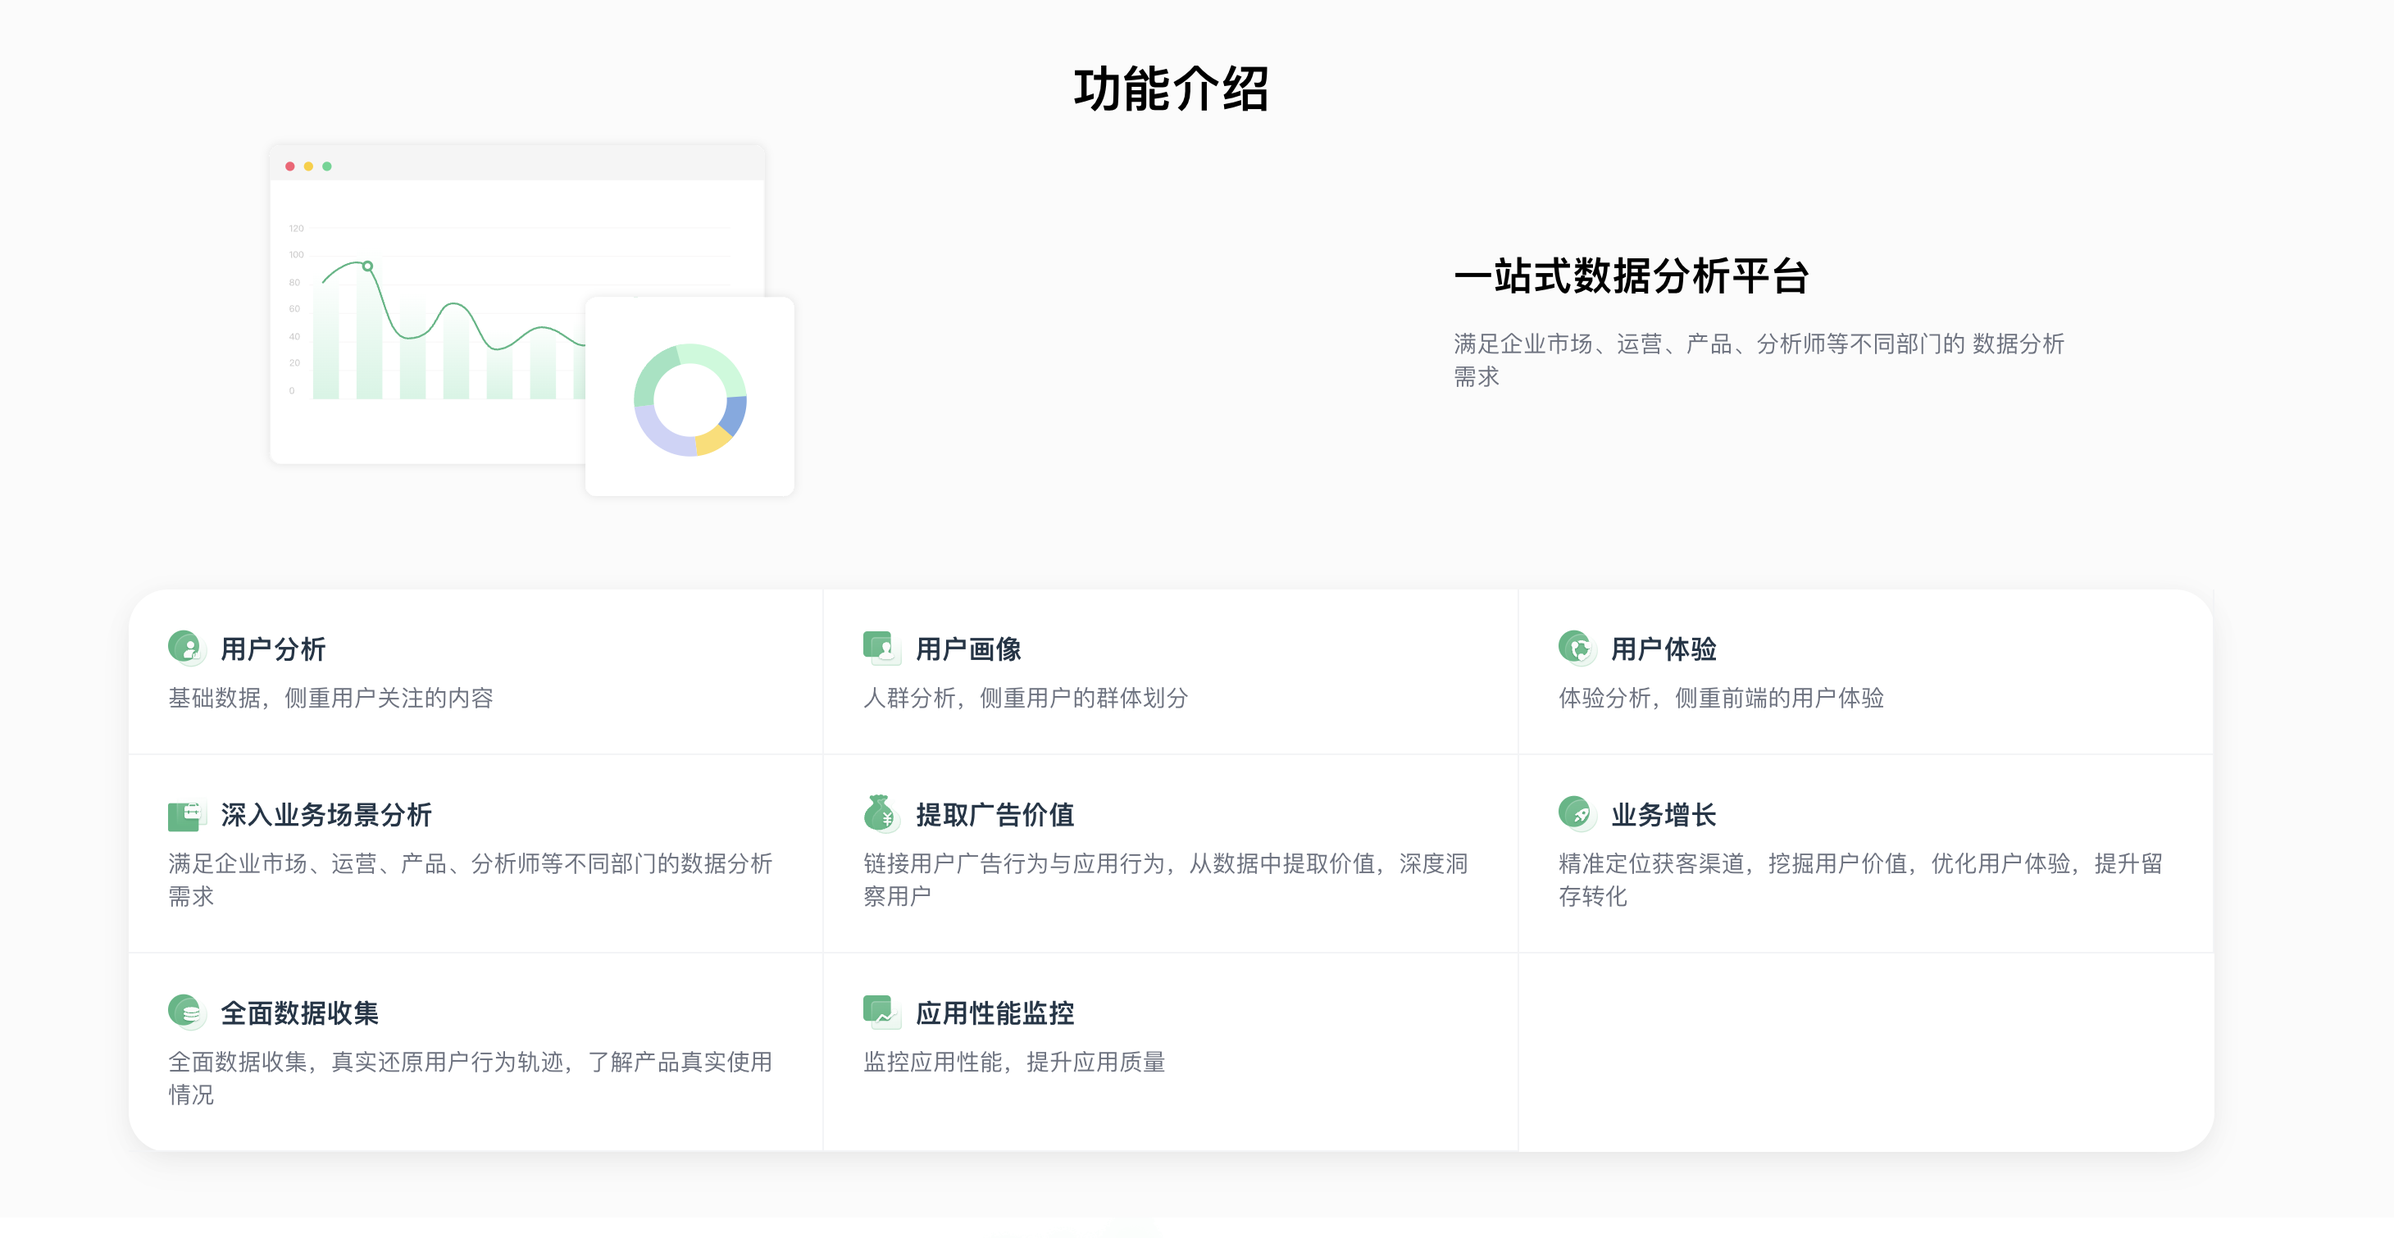
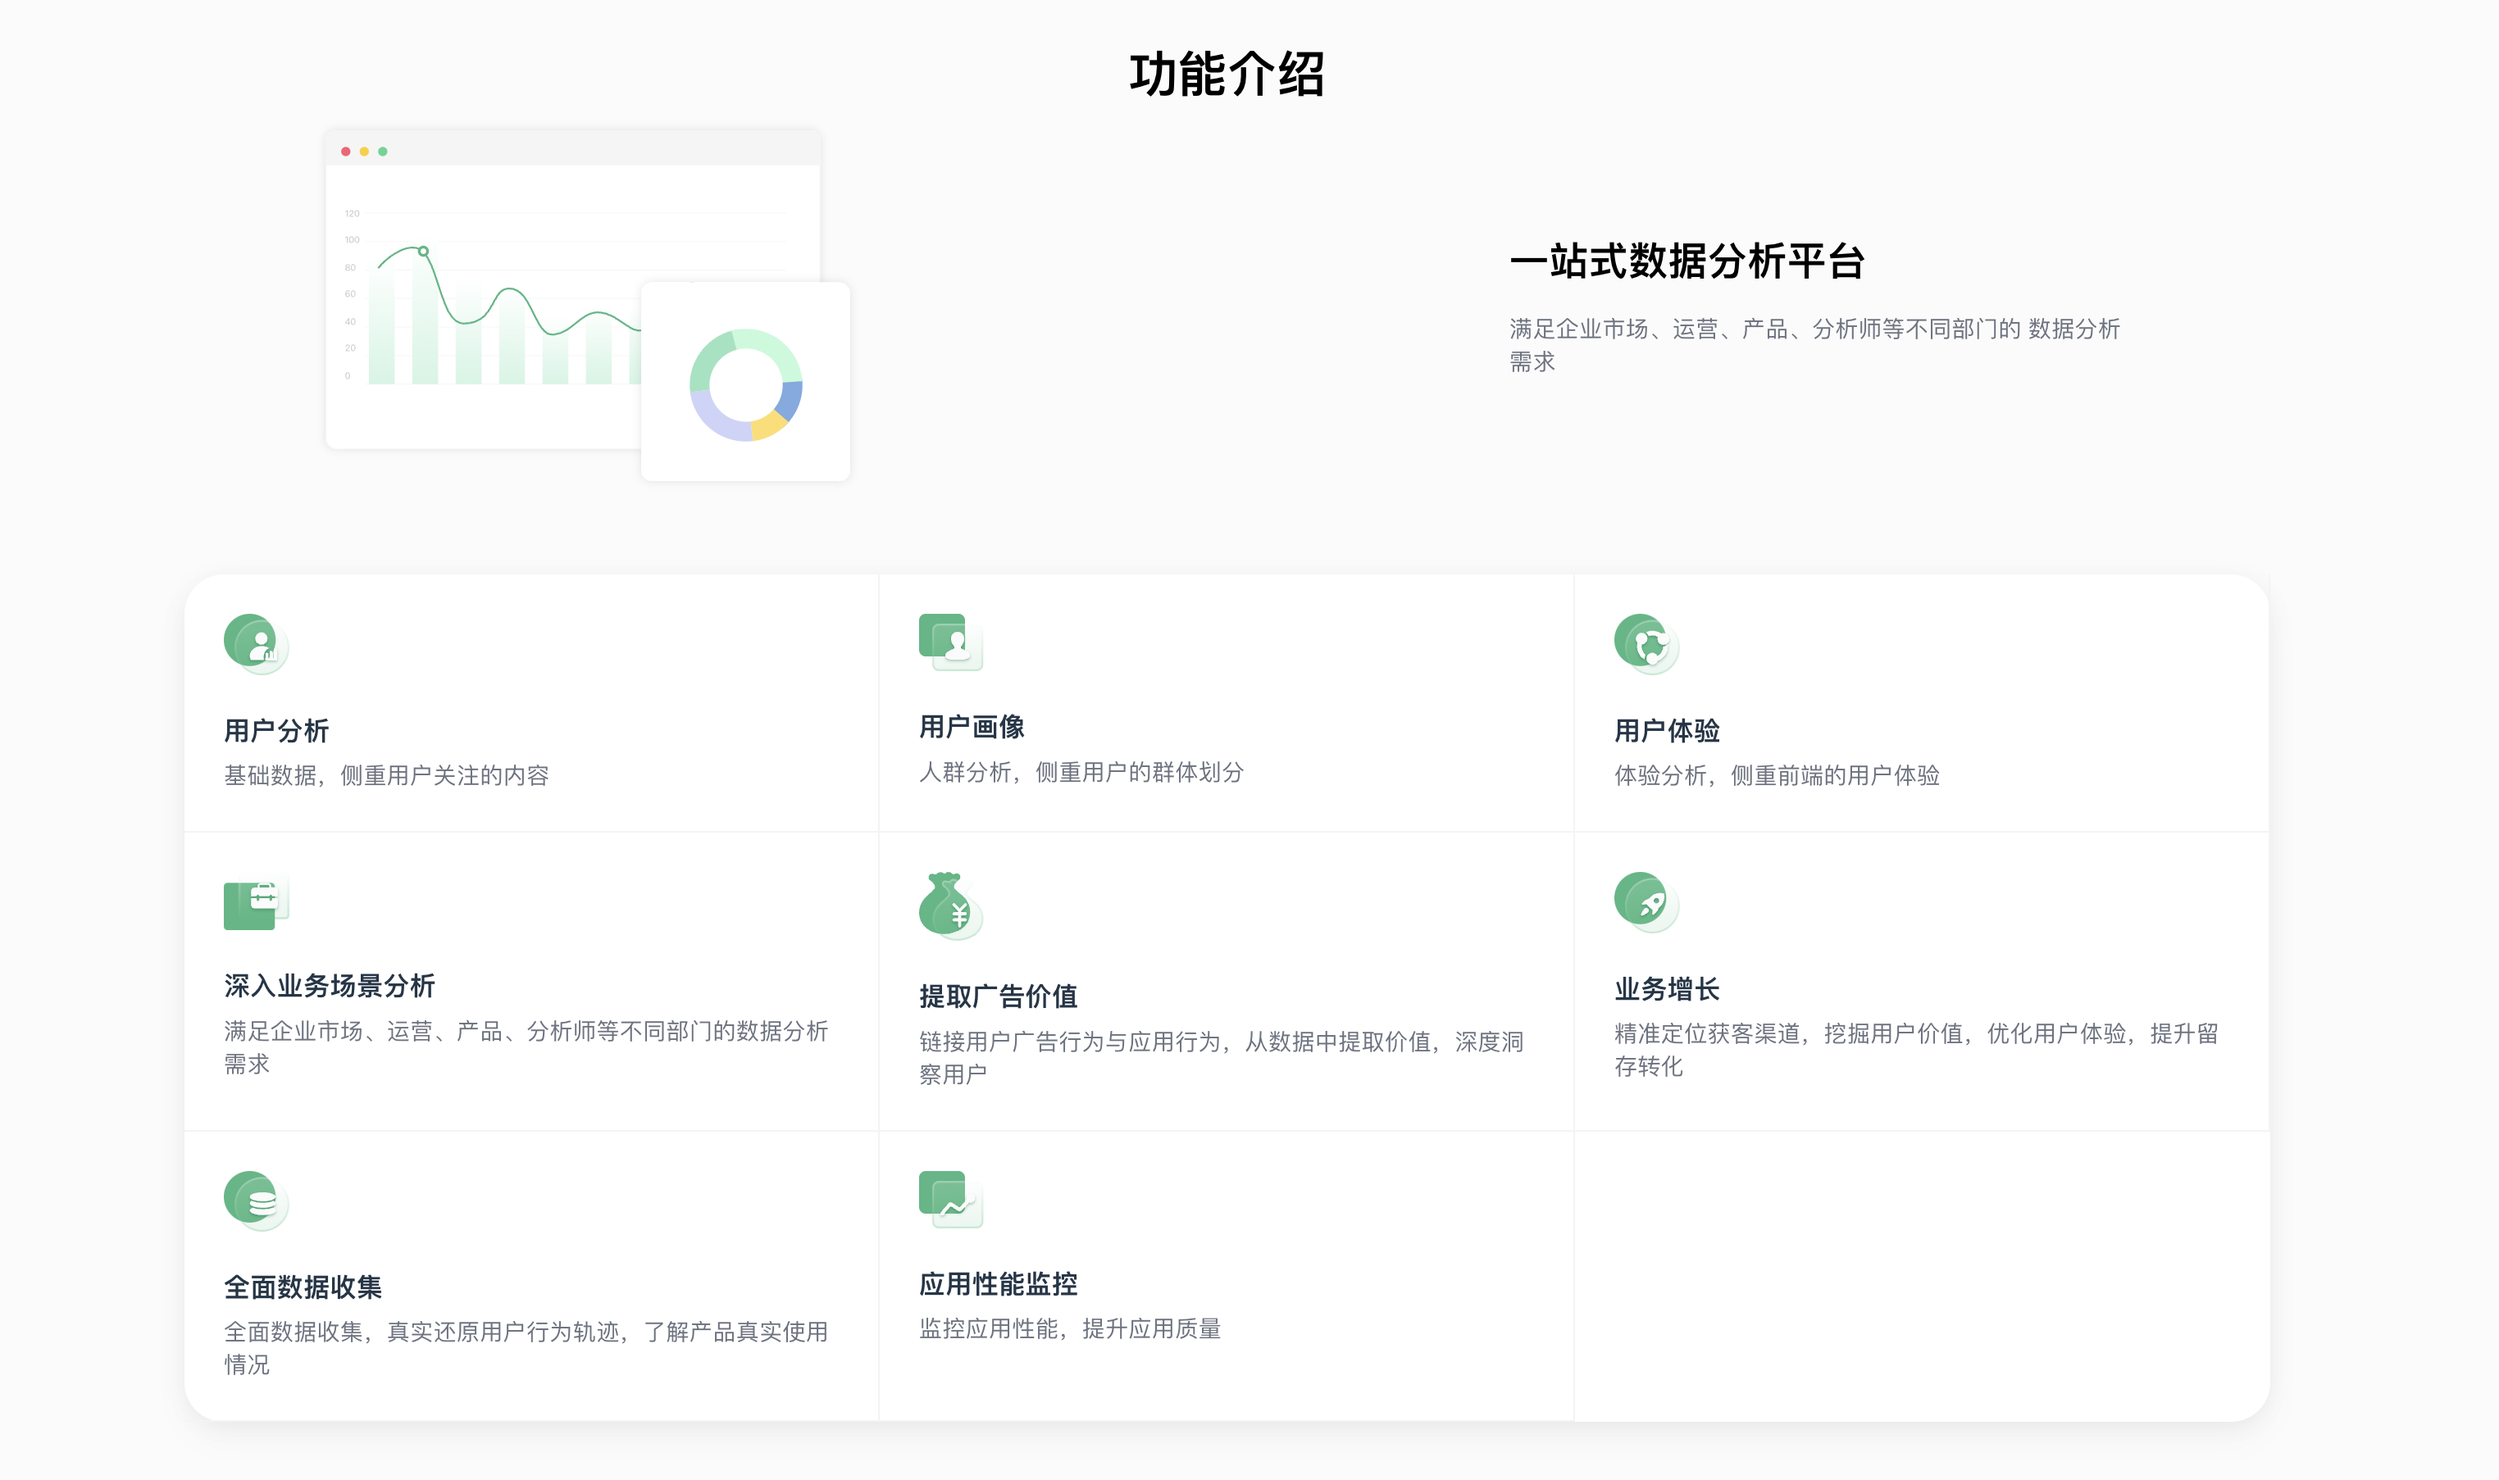
section_54 调整

diff --git a/seo/app/view/component/xfpageModule/section_54.html b/seo/app/view/component/xfpageModule/section_54.html
@@ -32,8 +32,8 @@
       {% for it in section.list %}
       {% set itIndex = loop.index %}
       <div class="p-6 border-b border-r border-gray-100">
+        <img src="<$ xfpageSeoResourceUrl $><$ it.icon $>" class="w-10 w-10 mr-2 mb-4"/>
         <h3 class="text-md font-bold d-flex align-center items-center">
-          <img src="<$ xfpageSeoResourceUrl $><$ it.icon $>" class="w-6 h-6 mr-2"/>
           <$ it.title $>
         </h3>
         <p class="mt-2 text-gray-500 text-sm">
